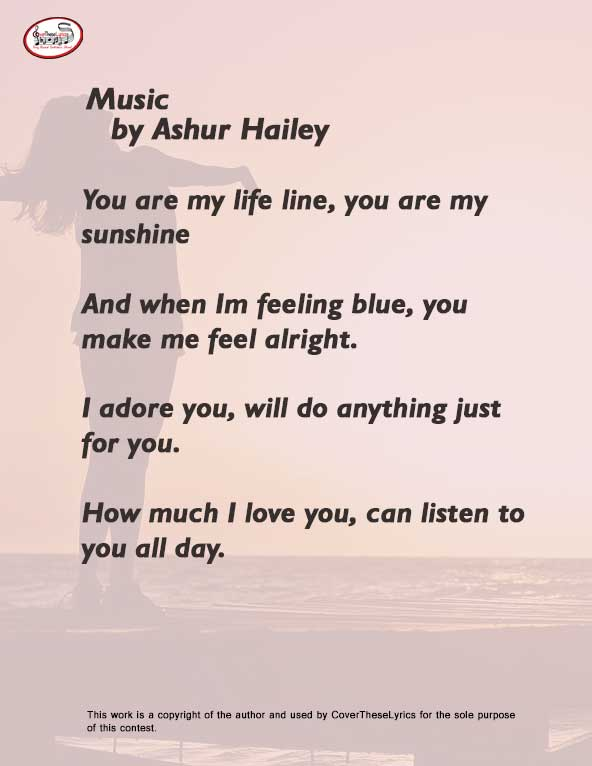
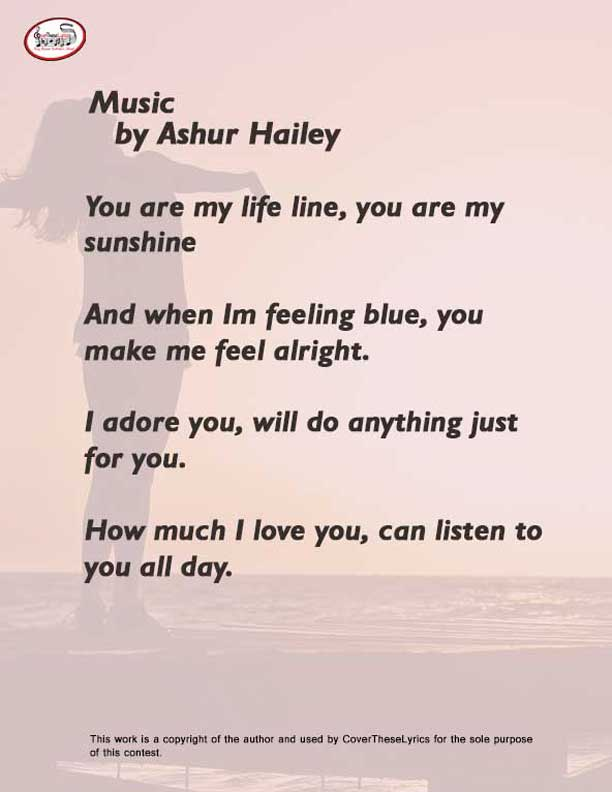
fixed lyric image sizes and the pdf download position

diff --git a/public/assets/css/style.css b/public/assets/css/style.css
@@ -365,6 +365,17 @@ span.turn {
   /*  height:600px;*/
 }
 
+.pdf-span {
+  margin-left: 9%;
+  position: relative;
+  left: 8%;
+  display: inline-block;
+}
+
+/*.lyric-div {
+  
+  }*/
+
 /****************End Lyrics Page****************/
 
 /***********Submit Page**************/
